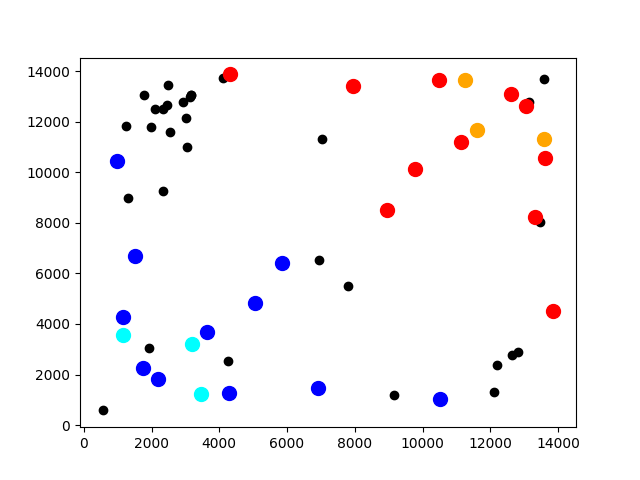
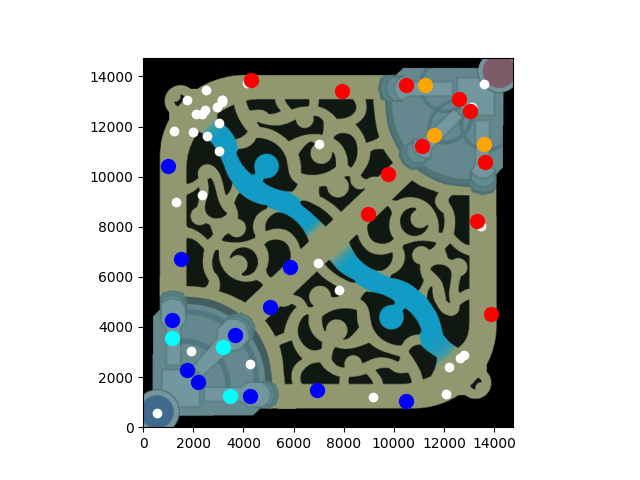
Fixed minimap display

diff --git a/src/main.py b/src/main.py
@@ -3,6 +3,7 @@
 
 import pandas as pd
 import json
+from PIL import Image
 
 from utils_stuff.globals import *
 from utils_stuff.utils_func import *
@@ -11,6 +12,7 @@ from utils_stuff.utils_func import scale
 from Details.DetailsData import DetailsData
 import argparse
 import matplotlib.pyplot as plt
+from matplotlib.pyplot import Axes
 
 
 
@@ -49,21 +51,21 @@ if __name__ == "__main__":
     inhibitorRedY = [pos.y for pos in inhibitorPositionRedSide]
     inhibitorBlueX = [pos.x for pos in inhibitorPositionBlueSide]
     inhibitorBlueY = [pos.y for pos in inhibitorPositionBlueSide]
-    
-    plt.scatter(X, Y, color="black")
+
+    plt.figure(figsize=(4,4))
+    img = np.asarray(Image.open("../Summoner's_Rift_Minimap.webp"))
+
+    fig, ax =plt.subplots()
+    ax.imshow(img, extent=[0, MINIMAP_WIDTH, 0, MINIMAP_HEIGHT])
+
+
+    ax.scatter(X, Y, color="white")
     plt.scatter(towerRedX, towerRedY, color="Red", s=[100])
     plt.scatter(towerBlueX, towerBlueY, color="Blue", s=[100])
     
     plt.scatter(inhibitorRedX, inhibitorRedY, color="Orange", s=[100])
     plt.scatter(inhibitorBlueX, inhibitorBlueY, color="Cyan", s=[100])
+
+    ax.set_aspect("equal", adjustable="box")
     plt.savefig("temp.png")
-
-
-# # GETTING UNIQUE EVENTS
-# unique_events = get_all_event_types(DATA_PATH + "NORDvsBRUTE/g1/ESPORTSTMNT03_3210203_DETAILS.json")
-# keys = list(unique_events.keys())
-# keys.sort()
-# unique_events = {i: unique_events[i] for i in keys}
-
-# print(unique_events)
 

diff --git a/src/utils_stuff/globals.py b/src/utils_stuff/globals.py
@@ -1,6 +1,8 @@
 from utils_stuff.Position import Position 
 
 DATA_PATH = "../data/"
+MINIMAP_WIDTH = 14750
+MINIMAP_HEIGHT = 14750
 
 champions_list = ["Aatrox", "Ahri", "Akali", "Alistar", "Amumu", "Anivia", "Annie", "Ashe", "Azir",
                   "Blitzcrank", "Brand", "Braum",
